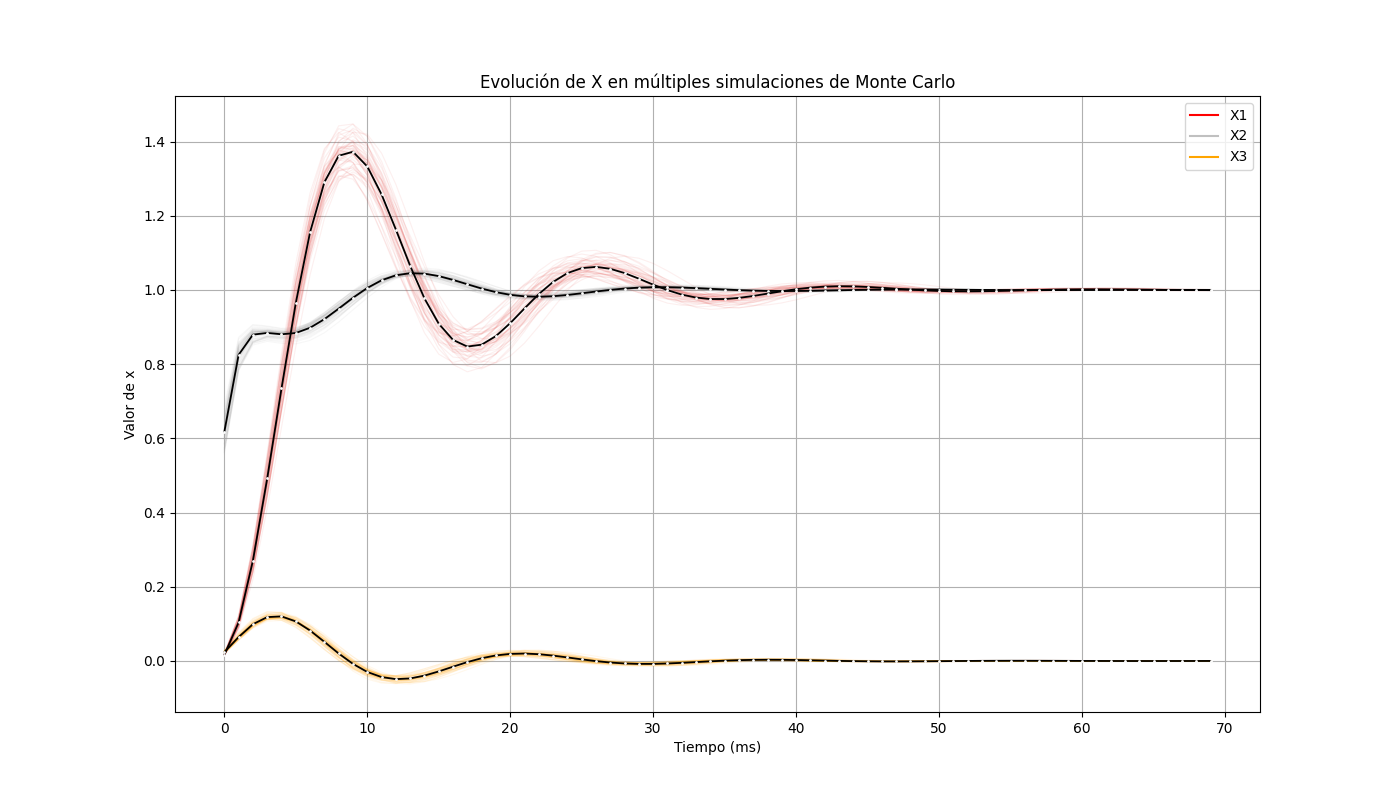
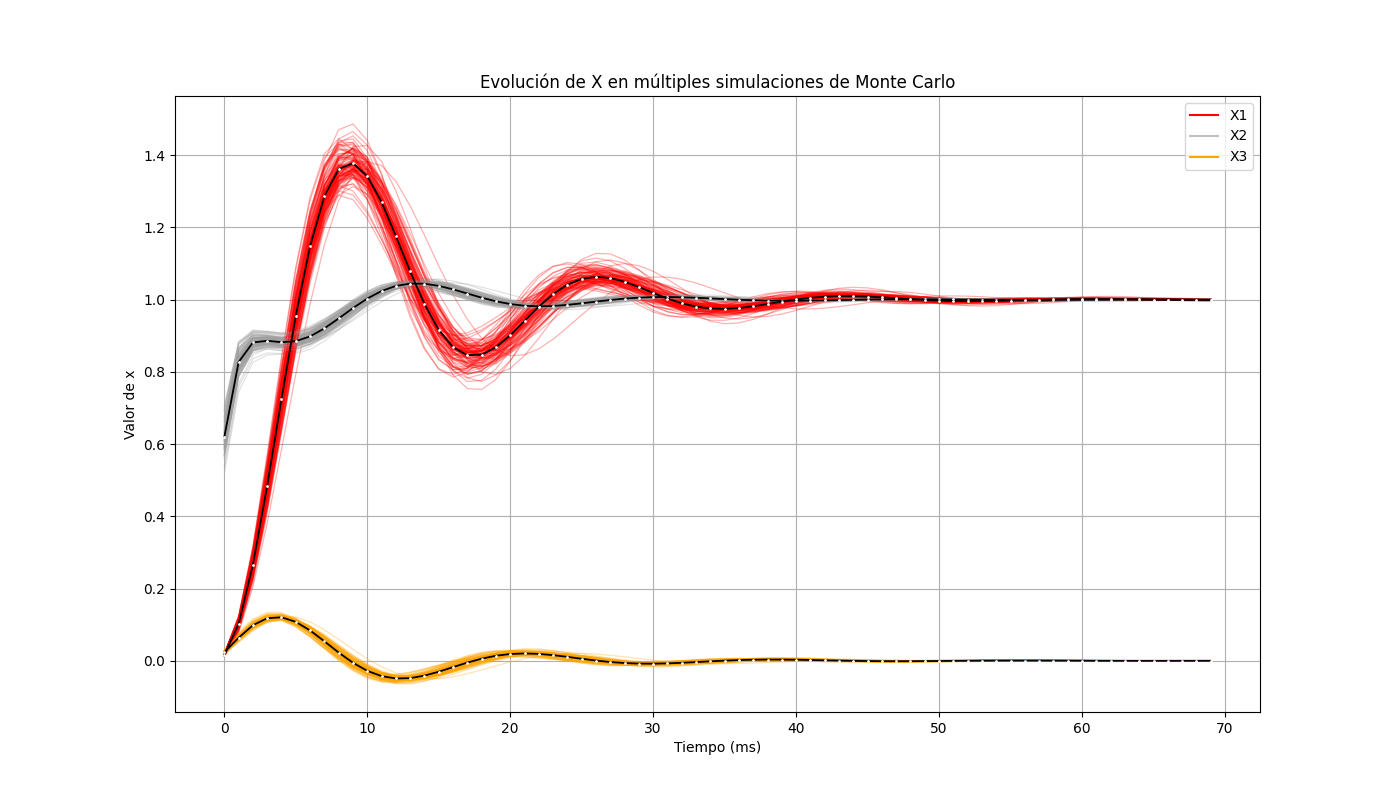
Se cambio los colores de las graficas

diff --git a/Actividad 3/Codigo python/metodos.py b/Actividad 3/Codigo python/metodos.py
@@ -98,7 +98,7 @@ def sumM(A, B):
 # Funcion para graficar cada componente de X
 def graficar_x(resultados):
     # Colores personalizados
-    colores = ["#A0A0A0", "#E53935", "orange"]  # Negro, Rojo, Naranja
+    colores = ["#A0A0A0", "red", "orange"]  # Negro, Rojo, Naranja
 
     plt.figure(figsize=(14, 8))
 
@@ -116,7 +116,7 @@ def graficar_x(resultados):
         for j in range(3):
             x_vals = range(num_iteraciones)
             y_vals = [fila[j] for fila in resultados[i]]  # Obtener valores de la variable j
-            plt.plot(x_vals, y_vals, color=colores[j], alpha=0.08, linewidth=0.8)  # Líneas individuales
+            plt.plot(x_vals, y_vals, color=colores[j], alpha=0.3, linewidth=0.9)  # Líneas individuales
 
             # Acumular valores para el promedio
             if j == 0:
@@ -187,7 +187,7 @@ def graficar_y(result_Y):
 
     # Graficar cada simulación en gris con transparencia
     for i in range(num_simulaciones):
-        plt.plot(result_Y[i], alpha=0.06, linewidth=0.9, color="red")
+        plt.plot(result_Y[i], alpha=0.2, linewidth=0.9, color="red")
 
     # Calcular el promedio manualmente
     promedio_Y = []
@@ -217,8 +217,9 @@ def graficar_y(result_Y):
 
     if num_simulaciones <= 5:
         plt.legend()
-
+    plt.grid()
     plt.savefig("y.png")
+
 
     # ===================== HISTOGRAMA =====================
     plt.figure(figsize=(10, 6))
